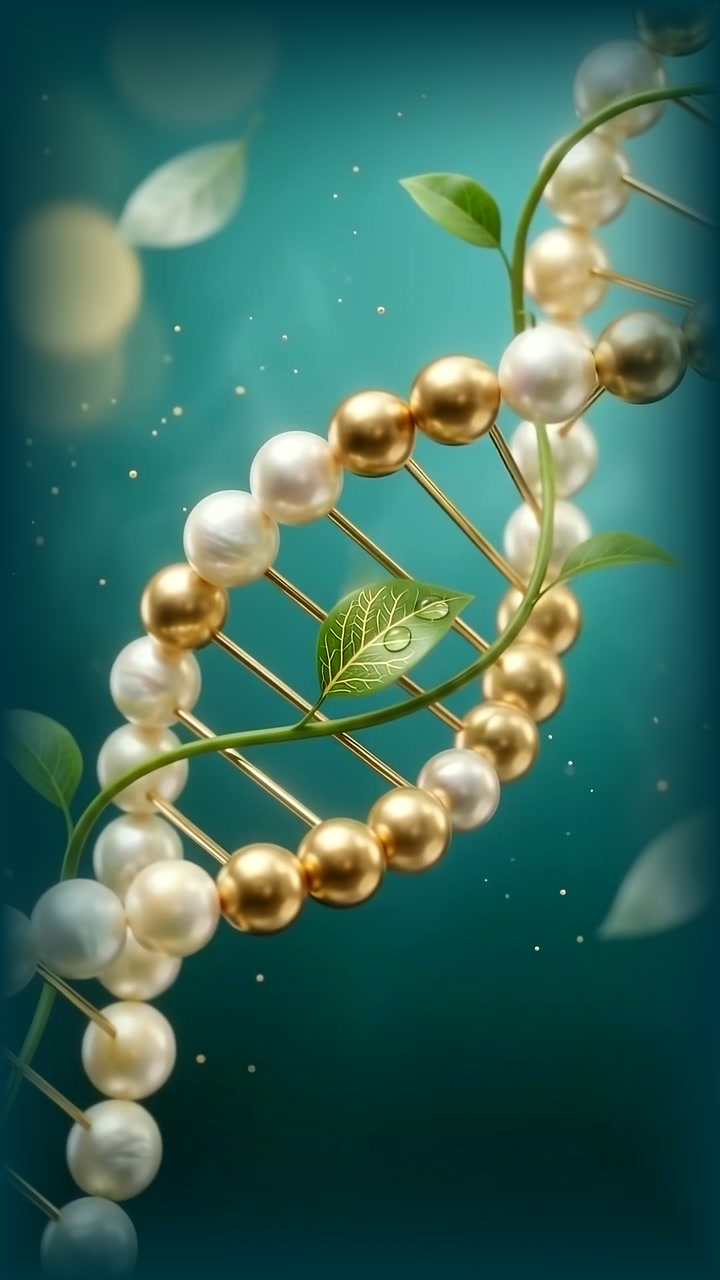
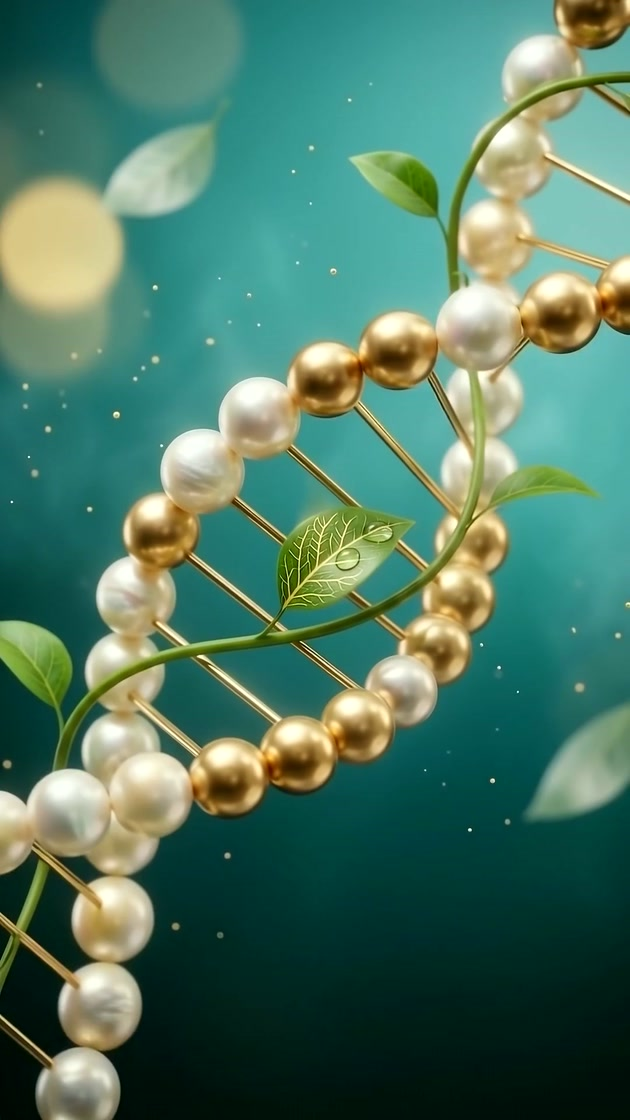
v44: заставка — ДНК на весь экран в высоком разрешении, логотип по центру поверх, загрузка внизу

diff --git a/index.html b/index.html
@@ -9,14 +9,14 @@
 <link rel="icon" href="assets/img/gold.png">
 <link rel="preconnect" href="https://fonts.googleapis.com">
 <link rel="stylesheet" href="https://fonts.googleapis.com/css2?family=Onest:wght@300;400;500;600&display=swap">
-<link rel="stylesheet" href="assets/site.css?v=43">
+<link rel="stylesheet" href="assets/site.css?v=44">
 <link rel="preload" as="image" href="assets/video/loader.jpg?v=40">
 <link rel="preload" as="image" href="assets/img/gold.png">
-<style id="pre-crit">.pre{position:fixed;inset:0;z-index:200;display:flex;flex-direction:column;align-items:center;justify-content:center;gap:2vh;background:#01343E;overflow:hidden;padding:4vh 0}.pre-in{display:flex;flex-direction:column;align-items:center;gap:10px;flex:none}.pre-logo{display:block;width:96px;height:96px;filter:drop-shadow(0 0 16px rgba(240,200,110,.7))}.pre-word{font:600 34px/1 Onest,system-ui,-apple-system,sans-serif;letter-spacing:.3em;margin-right:-.3em;color:#F0CD7E;text-shadow:0 0 14px rgba(240,200,110,.6)}.pre-in small{font:500 11px Onest,system-ui,sans-serif;letter-spacing:.38em;margin-right:-.38em;color:#F3DFA8}.pre-stage{flex:1 1 auto;min-height:0;width:100%;display:flex;justify-content:center}.pre-v{display:block;height:100%;width:auto;max-width:100%;aspect-ratio:9/16;object-fit:cover;background:#01343E}.pre-foot{flex:none;display:flex;flex-direction:column;align-items:center;gap:10px}.pre-pct{font:500 16px/1 Onest,system-ui,sans-serif;letter-spacing:.22em;color:#FFE9B8}.pre-bar{display:block;width:180px;height:2px;border-radius:2px;background:rgba(240,200,110,.2);overflow:hidden}.pre-bar em{display:block;height:100%;width:0;background:linear-gradient(90deg,#B8862F,#F6E3A8,#E2B85C);box-shadow:0 0 10px rgba(240,200,110,.8)}</style>
+<style id="pre-crit">.pre{position:fixed;inset:0;z-index:200;display:grid;place-items:center;background:#01343E;overflow:hidden}.pre-stage{position:absolute;inset:0;z-index:0;display:flex;justify-content:center;background:#01343E}.pre-v{display:block;width:100%;height:100%;object-fit:cover;object-position:50% 45%}.pre-stage::after{content:"";position:absolute;inset:0;background:radial-gradient(34% 26% at 50% 46%,rgba(1,36,44,.86),rgba(1,36,44,.55) 55%,rgba(1,36,44,0) 100%),linear-gradient(180deg,rgba(1,36,44,.35),rgba(1,36,44,0) 25%,rgba(1,36,44,0) 70%,rgba(1,36,44,.6))}.pre-in{position:relative;z-index:2;display:flex;flex-direction:column;align-items:center;gap:12px;margin-top:-6vh}.pre-logo{display:block;width:118px;height:118px;filter:drop-shadow(0 0 18px rgba(240,200,110,.8)) drop-shadow(0 0 44px rgba(240,200,110,.35))}.pre-word{font:600 42px/1 Onest,system-ui,-apple-system,sans-serif;letter-spacing:.3em;margin-right:-.3em;color:#F3D186;text-shadow:0 0 16px rgba(240,200,110,.7),0 2px 0 rgba(90,60,20,.6)}.pre-in small{font:500 11.5px Onest,system-ui,sans-serif;letter-spacing:.4em;margin-right:-.4em;color:#F6E3B4}.pre-foot{position:absolute;z-index:2;left:0;right:0;bottom:11vh;display:flex;flex-direction:column;align-items:center;gap:10px}.pre-pct{font:600 18px/1 Onest,system-ui,sans-serif;letter-spacing:.22em;color:#FFE9B8;text-shadow:0 0 12px rgba(240,200,110,.7)}.pre-bar{display:block;width:200px;height:3px;border-radius:3px;background:rgba(255,235,190,.22);overflow:hidden}.pre-bar em{display:block;height:100%;width:0;background:linear-gradient(90deg,#B8862F,#FFF1C9,#E2B85C);box-shadow:0 0 12px rgba(255,220,140,.9)}@media (min-width:760px){.pre-v{width:auto;max-width:none;height:100%;aspect-ratio:9/16;object-fit:cover}.pre-stage{background:radial-gradient(60% 80% at 50% 50%,#03545C,#01343E 70%)}}</style>
 
 </head>
 <body>
-<div class="pre" id="pre" aria-hidden="true"><div class="pre-in"><img class="pre-logo" src="assets/img/gold.png" alt="" width="128" height="128" fetchpriority="high"><b class="pre-word">ATINE</b><small>SCIENCE FOR LIFE</small></div><div class="pre-stage"><img class="pre-v" src="assets/video/loader.webp?v=43b" alt="" fetchpriority="high" decoding="async" style="background:#01343E url(assets/video/loader.jpg?v=41) center/cover no-repeat"></div><div class="pre-foot"><span class="pre-pct">0%</span><span class="pre-bar"><em></em></span></div></div>
+<div class="pre" id="pre" aria-hidden="true"><div class="pre-in"><img class="pre-logo" src="assets/img/gold.png" alt="" width="128" height="128" fetchpriority="high"><b class="pre-word">ATINE</b><small>SCIENCE FOR LIFE</small></div><div class="pre-stage"><img class="pre-v" src="assets/video/loader.webp?v=44" alt="" fetchpriority="high" decoding="async" style="background:#01343E url(assets/video/loader.jpg?v=44) center/cover no-repeat"></div><div class="pre-foot"><span class="pre-pct">0%</span><span class="pre-bar"><em></em></span></div></div>
 <script>document.documentElement.classList.add('pre-on');</script>
 <div class="topbar"><div class="wrap"><span class="tb-l"><a href="tel:+380662435261">+38 (066) 243-52-61</a><a href="mailto:info@atine.ua">info@atine.ua</a></span><span class="tb-r"><span class="tb-t">Ми в соцмережах</span><div class="soc"><a href="https://www.instagram.com/atine.ua" target="_blank" rel="noopener" aria-label="Instagram"><svg viewBox="0 0 24 24" fill="none" stroke="currentColor" stroke-width="1.6" aria-hidden="true"><rect x="3" y="3" width="18" height="18" rx="5"/><circle cx="12" cy="12" r="4"/><circle cx="17.5" cy="6.5" r=".8" fill="currentColor"/></svg></a><a href="https://www.facebook.com/atine.ua" target="_blank" rel="noopener" aria-label="Facebook"><svg viewBox="0 0 24 24" fill="currentColor" aria-hidden="true"><path d="M13.5 21v-7.5h2.6l.4-3h-3V8.6c0-.9.3-1.5 1.5-1.5h1.6V4.4c-.3 0-1.2-.1-2.3-.1-2.3 0-3.9 1.4-3.9 4v2.2H7.8v3h2.6V21z"/></svg></a><a href="https://www.youtube.com/@ATINEhealth" target="_blank" rel="noopener" aria-label="YouTube"><svg viewBox="0 0 24 24" fill="currentColor" aria-hidden="true"><path d="M21.6 7.2a2.5 2.5 0 0 0-1.8-1.8C18.2 5 12 5 12 5s-6.2 0-7.8.4A2.5 2.5 0 0 0 2.4 7.2 26 26 0 0 0 2 12a26 26 0 0 0 .4 4.8 2.5 2.5 0 0 0 1.8 1.8C5.8 19 12 19 12 19s6.2 0 7.8-.4a2.5 2.5 0 0 0 1.8-1.8A26 26 0 0 0 22 12a26 26 0 0 0-.4-4.8zM10 15V9l5.2 3z"/></svg></a></div></span></div></div>
 <header class="hd">
@@ -345,7 +345,7 @@
   </div>
 </footer>
 <script>window.ATINE_ROOT="";(function(){var l='uk';try{l=localStorage.getItem('atine-lang')||'uk';}catch(e){}if(['uk','ru','en'].indexOf(l)<0)l='uk';window.ATINE_LANG=l;document.documentElement.lang=l;if(l!=='uk')document.write('<script src="assets/i18n-'+l+'.js?v=25"><\/script>');})();</script>
-<script src="assets/site.js?v=43"></script>
+<script src="assets/site.js?v=44"></script>
 
 </body>
 </html>

diff --git a/assets/site.css b/assets/site.css
@@ -1667,3 +1667,13 @@ main img:not([src$=".png"]):not([src$=".svg"]),.pban .ph img,.who-ph img,.dna im
 @media (min-width:760px){.pre-logo{width:110px;height:110px}.pre-word{font-size:40px}}
 /* v42: «Формула ATINE» on phones — vertical card that shows the whole helix */
 @media (max-width:860px){.dna{min-height:0!important;height:auto!important;aspect-ratio:3/4}}
+
+/* ===== v44: full-bleed DNA loader, logo and progress over it (image, not video — safe everywhere) ===== */
+.pre{display:grid!important;place-items:center!important;padding:0!important;gap:0!important}
+.pre-stage{position:absolute!important;inset:0!important;z-index:0!important;flex:none!important;width:auto!important;min-height:0!important}
+.pre-v{position:static!important;height:100%!important;filter:none!important}
+.pre-in{position:relative!important;z-index:2!important;margin-top:-6vh!important}
+.pre-foot{position:absolute!important;z-index:2!important;bottom:11vh!important}
+.pre-in::before{display:none!important}
+.pre-logo{animation:preLogo 1.1s cubic-bezier(.2,.8,.2,1) both,preGlowLogo 2.6s ease-in-out 1.1s infinite!important}
+@media (max-width:759px){.pre-v{width:100%!important;object-fit:cover!important}}

diff --git a/nauka/index.html b/nauka/index.html
@@ -9,7 +9,7 @@
 <link rel="icon" href="../assets/img/gold.png">
 <link rel="preconnect" href="https://fonts.googleapis.com">
 <link rel="stylesheet" href="https://fonts.googleapis.com/css2?family=Onest:wght@300;400;500;600&display=swap">
-<link rel="stylesheet" href="../assets/site.css?v=43">
+<link rel="stylesheet" href="../assets/site.css?v=44">
 </head>
 <body>
 <div class="pre" id="pre" aria-hidden="true"><div class="pre-in"><i></i><b><span>A</span><span>T</span><span>I</span><span>N</span><span>E</span></b><small>SCIENCE FOR LIFE</small><span class="bar"><em></em></span></div></div>
@@ -192,7 +192,7 @@
   </div>
 </footer>
 <script>window.ATINE_ROOT="../";(function(){var l='uk';try{l=localStorage.getItem('atine-lang')||'uk';}catch(e){}if(['uk','ru','en'].indexOf(l)<0)l='uk';window.ATINE_LANG=l;document.documentElement.lang=l;if(l!=='uk')document.write('<script src="../assets/i18n-'+l+'.js?v=25"><\/script>');})();</script>
-<script src="../assets/site.js?v=43"></script>
+<script src="../assets/site.js?v=44"></script>
 <script>
 /* herbarium: 26 roots from ATINE.docx */
 (function(){

diff --git a/produkty/fitochai/index.html b/produkty/fitochai/index.html
@@ -9,7 +9,7 @@
 <link rel="icon" href="../../assets/img/gold.png">
 <link rel="preconnect" href="https://fonts.googleapis.com">
 <link rel="stylesheet" href="https://fonts.googleapis.com/css2?family=Onest:wght@300;400;500;600&display=swap">
-<link rel="stylesheet" href="../../assets/site.css?v=43">
+<link rel="stylesheet" href="../../assets/site.css?v=44">
 </head>
 <body>
 <div class="pre" id="pre" aria-hidden="true"><div class="pre-in"><i></i><b><span>A</span><span>T</span><span>I</span><span>N</span><span>E</span></b><small>SCIENCE FOR LIFE</small><span class="bar"><em></em></span></div></div>
@@ -123,7 +123,7 @@
   </div>
 </footer>
 <script>window.ATINE_ROOT="../../";(function(){var l='uk';try{l=localStorage.getItem('atine-lang')||'uk';}catch(e){}if(['uk','ru','en'].indexOf(l)<0)l='uk';window.ATINE_LANG=l;document.documentElement.lang=l;if(l!=='uk')document.write('<script src="../../assets/i18n-'+l+'.js?v=25"><\/script>');})();</script>
-<script src="../../assets/site.js?v=43"></script>
+<script src="../../assets/site.js?v=44"></script>
 
 </body>
 </html>

diff --git a/produkty/hustyi-ekstrakt/index.html b/produkty/hustyi-ekstrakt/index.html
@@ -9,7 +9,7 @@
 <link rel="icon" href="../../assets/img/gold.png">
 <link rel="preconnect" href="https://fonts.googleapis.com">
 <link rel="stylesheet" href="https://fonts.googleapis.com/css2?family=Onest:wght@300;400;500;600&display=swap">
-<link rel="stylesheet" href="../../assets/site.css?v=43">
+<link rel="stylesheet" href="../../assets/site.css?v=44">
 </head>
 <body>
 <div class="pre" id="pre" aria-hidden="true"><div class="pre-in"><i></i><b><span>A</span><span>T</span><span>I</span><span>N</span><span>E</span></b><small>SCIENCE FOR LIFE</small><span class="bar"><em></em></span></div></div>
@@ -123,7 +123,7 @@
   </div>
 </footer>
 <script>window.ATINE_ROOT="../../";(function(){var l='uk';try{l=localStorage.getItem('atine-lang')||'uk';}catch(e){}if(['uk','ru','en'].indexOf(l)<0)l='uk';window.ATINE_LANG=l;document.documentElement.lang=l;if(l!=='uk')document.write('<script src="../../assets/i18n-'+l+'.js?v=25"><\/script>');})();</script>
-<script src="../../assets/site.js?v=43"></script>
+<script src="../../assets/site.js?v=44"></script>
 
 </body>
 </html>

diff --git a/produkty/kapsuly/index.html b/produkty/kapsuly/index.html
@@ -9,7 +9,7 @@
 <link rel="icon" href="../../assets/img/gold.png">
 <link rel="preconnect" href="https://fonts.googleapis.com">
 <link rel="stylesheet" href="https://fonts.googleapis.com/css2?family=Onest:wght@300;400;500;600&display=swap">
-<link rel="stylesheet" href="../../assets/site.css?v=43">
+<link rel="stylesheet" href="../../assets/site.css?v=44">
 </head>
 <body>
 <div class="pre" id="pre" aria-hidden="true"><div class="pre-in"><i></i><b><span>A</span><span>T</span><span>I</span><span>N</span><span>E</span></b><small>SCIENCE FOR LIFE</small><span class="bar"><em></em></span></div></div>
@@ -123,7 +123,7 @@
   </div>
 </footer>
 <script>window.ATINE_ROOT="../../";(function(){var l='uk';try{l=localStorage.getItem('atine-lang')||'uk';}catch(e){}if(['uk','ru','en'].indexOf(l)<0)l='uk';window.ATINE_LANG=l;document.documentElement.lang=l;if(l!=='uk')document.write('<script src="../../assets/i18n-'+l+'.js?v=25"><\/script>');})();</script>
-<script src="../../assets/site.js?v=43"></script>
+<script src="../../assets/site.js?v=44"></script>
 
 </body>
 </html>

diff --git a/produkty/sukhyi-ekstrakt/index.html b/produkty/sukhyi-ekstrakt/index.html
@@ -9,7 +9,7 @@
 <link rel="icon" href="../../assets/img/gold.png">
 <link rel="preconnect" href="https://fonts.googleapis.com">
 <link rel="stylesheet" href="https://fonts.googleapis.com/css2?family=Onest:wght@300;400;500;600&display=swap">
-<link rel="stylesheet" href="../../assets/site.css?v=43">
+<link rel="stylesheet" href="../../assets/site.css?v=44">
 </head>
 <body>
 <div class="pre" id="pre" aria-hidden="true"><div class="pre-in"><i></i><b><span>A</span><span>T</span><span>I</span><span>N</span><span>E</span></b><small>SCIENCE FOR LIFE</small><span class="bar"><em></em></span></div></div>
@@ -123,7 +123,7 @@
   </div>
 </footer>
 <script>window.ATINE_ROOT="../../";(function(){var l='uk';try{l=localStorage.getItem('atine-lang')||'uk';}catch(e){}if(['uk','ru','en'].indexOf(l)<0)l='uk';window.ATINE_LANG=l;document.documentElement.lang=l;if(l!=='uk')document.write('<script src="../../assets/i18n-'+l+'.js?v=25"><\/script>');})();</script>
-<script src="../../assets/site.js?v=43"></script>
+<script src="../../assets/site.js?v=44"></script>
 
 </body>
 </html>

diff --git a/produkty/tabletky/index.html b/produkty/tabletky/index.html
@@ -9,7 +9,7 @@
 <link rel="icon" href="../../assets/img/gold.png">
 <link rel="preconnect" href="https://fonts.googleapis.com">
 <link rel="stylesheet" href="https://fonts.googleapis.com/css2?family=Onest:wght@300;400;500;600&display=swap">
-<link rel="stylesheet" href="../../assets/site.css?v=43">
+<link rel="stylesheet" href="../../assets/site.css?v=44">
 </head>
 <body>
 <div class="pre" id="pre" aria-hidden="true"><div class="pre-in"><i></i><b><span>A</span><span>T</span><span>I</span><span>N</span><span>E</span></b><small>SCIENCE FOR LIFE</small><span class="bar"><em></em></span></div></div>
@@ -123,7 +123,7 @@
   </div>
 </footer>
 <script>window.ATINE_ROOT="../../";(function(){var l='uk';try{l=localStorage.getItem('atine-lang')||'uk';}catch(e){}if(['uk','ru','en'].indexOf(l)<0)l='uk';window.ATINE_LANG=l;document.documentElement.lang=l;if(l!=='uk')document.write('<script src="../../assets/i18n-'+l+'.js?v=25"><\/script>');})();</script>
-<script src="../../assets/site.js?v=43"></script>
+<script src="../../assets/site.js?v=44"></script>
 
 </body>
 </html>

diff --git a/doslidzhennya/index.html b/doslidzhennya/index.html
@@ -9,7 +9,7 @@
 <link rel="icon" href="../assets/img/gold.png">
 <link rel="preconnect" href="https://fonts.googleapis.com">
 <link rel="stylesheet" href="https://fonts.googleapis.com/css2?family=Onest:wght@300;400;500;600&display=swap">
-<link rel="stylesheet" href="../assets/site.css?v=43">
+<link rel="stylesheet" href="../assets/site.css?v=44">
 </head>
 <body>
 <div class="pre" id="pre" aria-hidden="true"><div class="pre-in"><i></i><b><span>A</span><span>T</span><span>I</span><span>N</span><span>E</span></b><small>SCIENCE FOR LIFE</small><span class="bar"><em></em></span></div></div>
@@ -123,7 +123,7 @@
   </div>
 </footer>
 <script>window.ATINE_ROOT="../";(function(){var l='uk';try{l=localStorage.getItem('atine-lang')||'uk';}catch(e){}if(['uk','ru','en'].indexOf(l)<0)l='uk';window.ATINE_LANG=l;document.documentElement.lang=l;if(l!=='uk')document.write('<script src="../assets/i18n-'+l+'.js?v=25"><\/script>');})();</script>
-<script src="../assets/site.js?v=43"></script>
+<script src="../assets/site.js?v=44"></script>
 
 </body>
 </html>

diff --git a/koshyk/index.html b/koshyk/index.html
@@ -9,7 +9,7 @@
 <link rel="icon" href="../assets/img/gold.png">
 <link rel="preconnect" href="https://fonts.googleapis.com">
 <link rel="stylesheet" href="https://fonts.googleapis.com/css2?family=Onest:wght@300;400;500;600&display=swap">
-<link rel="stylesheet" href="../assets/site.css?v=43">
+<link rel="stylesheet" href="../assets/site.css?v=44">
 </head>
 <body>
 <div class="pre" id="pre" aria-hidden="true"><div class="pre-in"><i></i><b><span>A</span><span>T</span><span>I</span><span>N</span><span>E</span></b><small>SCIENCE FOR LIFE</small><span class="bar"><em></em></span></div></div>
@@ -114,7 +114,7 @@
   </div>
 </footer>
 <script>window.ATINE_ROOT="../";(function(){var l='uk';try{l=localStorage.getItem('atine-lang')||'uk';}catch(e){}if(['uk','ru','en'].indexOf(l)<0)l='uk';window.ATINE_LANG=l;document.documentElement.lang=l;if(l!=='uk')document.write('<script src="../assets/i18n-'+l+'.js?v=25"><\/script>');})();</script>
-<script src="../assets/site.js?v=43"></script>
+<script src="../assets/site.js?v=44"></script>
 
 </body>
 </html>

diff --git a/likaryam/index.html b/likaryam/index.html
@@ -9,7 +9,7 @@
 <link rel="icon" href="../assets/img/gold.png">
 <link rel="preconnect" href="https://fonts.googleapis.com">
 <link rel="stylesheet" href="https://fonts.googleapis.com/css2?family=Onest:wght@300;400;500;600&display=swap">
-<link rel="stylesheet" href="../assets/site.css?v=43">
+<link rel="stylesheet" href="../assets/site.css?v=44">
 </head>
 <body>
 <div class="pre" id="pre" aria-hidden="true"><div class="pre-in"><i></i><b><span>A</span><span>T</span><span>I</span><span>N</span><span>E</span></b><small>SCIENCE FOR LIFE</small><span class="bar"><em></em></span></div></div>
@@ -210,7 +210,7 @@
   </div>
 </footer>
 <script>window.ATINE_ROOT="../";(function(){var l='uk';try{l=localStorage.getItem('atine-lang')||'uk';}catch(e){}if(['uk','ru','en'].indexOf(l)<0)l='uk';window.ATINE_LANG=l;document.documentElement.lang=l;if(l!=='uk')document.write('<script src="../assets/i18n-'+l+'.js?v=25"><\/script>');})();</script>
-<script src="../assets/site.js?v=43"></script>
+<script src="../assets/site.js?v=44"></script>
 
 </body>
 </html>

diff --git a/partneram/index.html b/partneram/index.html
@@ -9,7 +9,7 @@
 <link rel="icon" href="../assets/img/gold.png">
 <link rel="preconnect" href="https://fonts.googleapis.com">
 <link rel="stylesheet" href="https://fonts.googleapis.com/css2?family=Onest:wght@300;400;500;600&display=swap">
-<link rel="stylesheet" href="../assets/site.css?v=43">
+<link rel="stylesheet" href="../assets/site.css?v=44">
 </head>
 <body>
 <div class="pre" id="pre" aria-hidden="true"><div class="pre-in"><i></i><b><span>A</span><span>T</span><span>I</span><span>N</span><span>E</span></b><small>SCIENCE FOR LIFE</small><span class="bar"><em></em></span></div></div>
@@ -108,7 +108,7 @@
   </div>
 </footer>
 <script>window.ATINE_ROOT="../";(function(){var l='uk';try{l=localStorage.getItem('atine-lang')||'uk';}catch(e){}if(['uk','ru','en'].indexOf(l)<0)l='uk';window.ATINE_LANG=l;document.documentElement.lang=l;if(l!=='uk')document.write('<script src="../assets/i18n-'+l+'.js?v=25"><\/script>');})();</script>
-<script src="../assets/site.js?v=43"></script>
+<script src="../assets/site.js?v=44"></script>
 
 </body>
 </html>
